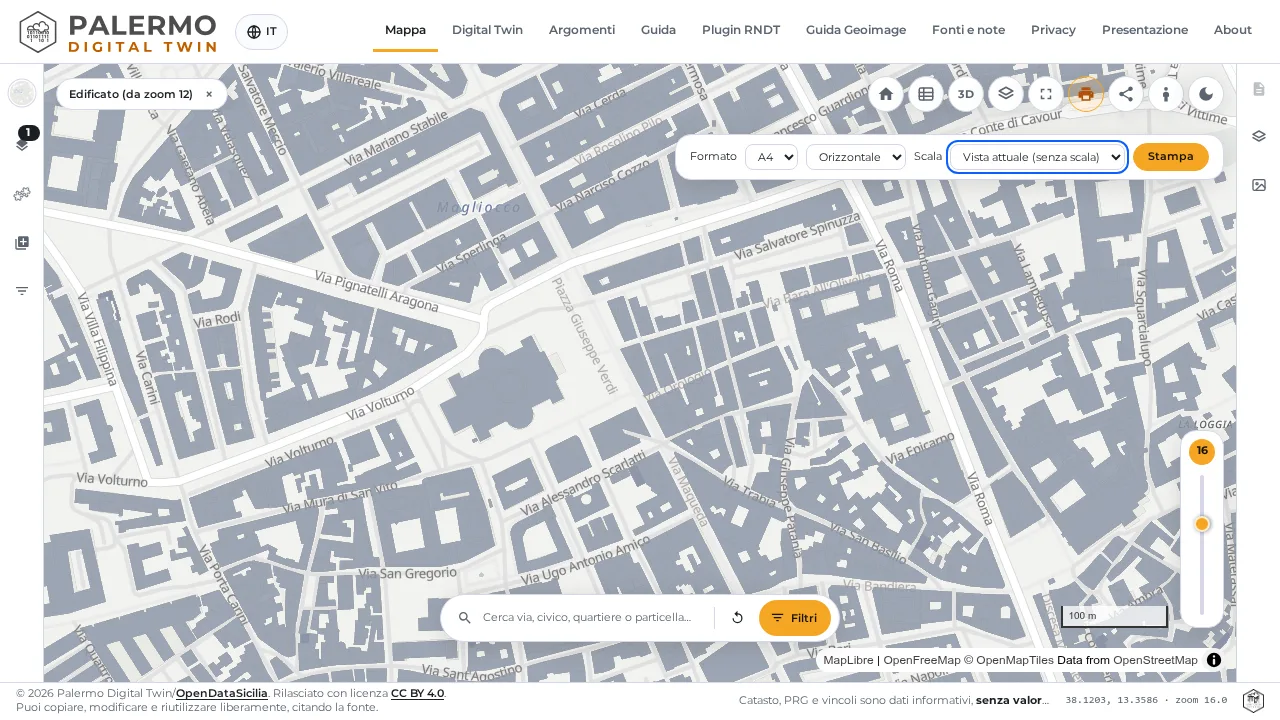
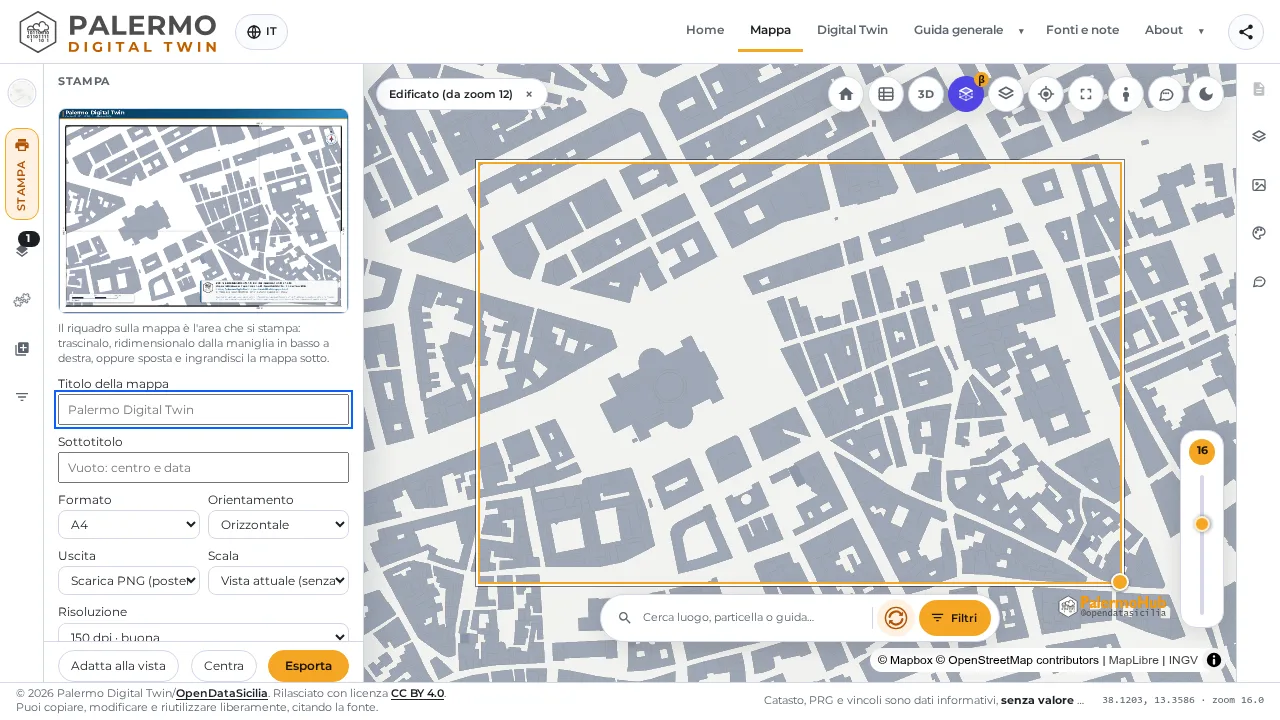
upgrade

diff --git a/js/core/guida-contenuti.js b/js/core/guida-contenuti.js
@@ -202,9 +202,9 @@ export const PASSI = [
     titolo: 'Stampare la mappa',
     paragrafi: [
       'Il tab Stampa (icona della stampante) del pannello di sinistra, subito dopo «Mappe di base», apre la stampa della mappa. Un riquadro trascinabile sulla mappa è l\'area che si stampa: si sposta, si ridimensiona dalla maniglia e un\'anteprima si aggiorna da sola. Si scelgono titolo, formato (da A4 ad A0), orientamento, uscita (PNG, JPG o PDF in formato poster, oppure il foglio da stampare) e risoluzione; il poster ha cornice con coordinate, barra di scala, rosa dei venti, le legende dei soli layer accesi e le fonti. Con «Stampa (foglio)» si può anche scegliere la scala, da 1:1.000 a 1:25.000, con la barra grafica in metri e chilometri; «Vista attuale» stampa la mappa com\'è.',
-      'Negli altri pulsanti della barra: la casa riporta alla vista iniziale, le frecce agli angoli attivano lo schermo intero e la luna passa dal tema chiaro al tema scuro (da smartphone si usa l\'interruttore accanto al logo, e stampa, vista iniziale e schermo intero stanno in colonna a destra).',
+      'Negli altri pulsanti della barra: la casa riporta alla vista iniziale, le frecce agli angoli attivano lo schermo intero e la luna passa dal tema chiaro al tema scuro (da smartphone si usa l\'interruttore accanto al logo, e vista iniziale e schermo intero stanno in colonna a destra).',
     ],
-    immagine: { file: 'img/guida/passi/strumenti.webp', alt: 'La barra degli strumenti.', didascalia: 'Il tab Stampa sta nel pannello di sinistra, dopo «Mappe di base».' },
+    immagine: { file: 'img/guida/passi/strumenti.webp', alt: 'Il tab Stampa del pannello di sinistra: anteprima, titolo, formato e uscita; sulla mappa il riquadro che si stampa.', didascalia: 'Il tab Stampa: il riquadro sulla mappa è l\'area che si stampa.' },
     narrazione: 'La stampa, dal tab Stampa del pannello di sinistra, prepara un foglio con il titolo, la mappa che stai guardando, le legende degli strati accesi e le fonti. Scegli il formato, da A quattro ad A zero, l\'orientamento e la scala. Gli altri pulsanti della barra riportano alla vista iniziale, attivano lo schermo intero o passano al tema scuro.',
     scena: { strati: ['edificato'], centro: PUNTO_CLIC, zoom: 16, macro: 'stampa' },
   },
